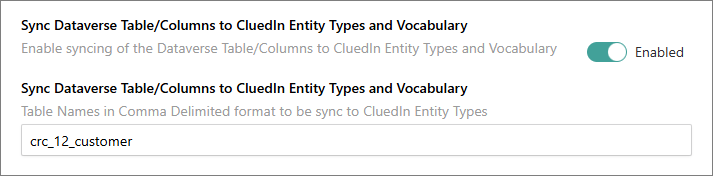
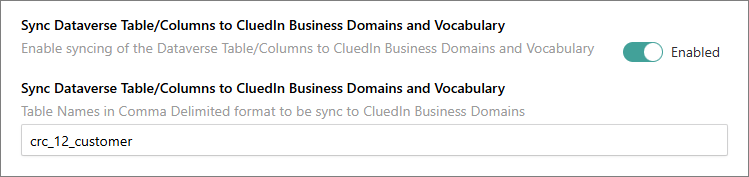
Terminology update in progress

diff --git a/docs/180-microsoft-integration/powerapps/020-power-apps-configuration-guide.md b/docs/180-microsoft-integration/powerapps/020-power-apps-configuration-guide.md
@@ -49,27 +49,27 @@ Power Apps integration offers a variety of features for syncing data between Clu
 
 **To configure specific features of Power Apps integration**
 
-1. If you want to sync multiple CluedIn entity types to Dataverse tables, specify the **Parallel Execution Count**. This is the number of entity types that can be simultaneously synced with Dataverse. Be default, this number is 5.
+1. If you want to sync multiple CluedIn business domains to Dataverse tables, specify the **Parallel Execution Count**. This is the number of business domains that can be simultaneously synced with Dataverse. Be default, this number is 5.
 
-1. If you want to sync CluedIn entity types to Dataverse tables:
+1. If you want to sync CluedIn business domains to Dataverse tables:
 
-    1. Turn on the toggle next to **Sync CluedIn Entity Types Dataverse Table**.
+    1. Turn on the toggle next to **Sync CluedIn Business Domains to Dataverse Table**.
 
-    1. Enter the entity types that you want to sync. If you want to sync multiple entity types, separate them with a comma (for example, _/Type1,/Type2,/Type3_). 
+    1. Enter the business domains that you want to sync. If you want to sync multiple business domains, separate them with a comma (for example, _/Type1,/Type2,/Type3_). 
 
         ![sync-entity-types.png](../../assets/images/microsoft-integration/power-apps/sync-entity-types.png)
 
-        Each entity type will be synced into a separate Dataverse table. For more information, see [Sync entity types to Dataverse tables](/microsoft-integration/powerapps/features/sync-entitytypes).
+        Each business domain will be synced into a separate Dataverse table. For more information, see [Sync business domains to Dataverse tables](/microsoft-integration/powerapps/features/sync-entitytypes).
 
-1. If you want to sync Dataverse tables and columns to CluedIn entity types and vocabulary keys:
+1. If you want to sync Dataverse tables and columns to CluedIn business domains and vocabulary keys:
 
-    1. Turn on the toggle next to **Sync Dataverse Table/Columns to CluedIn Entity Types and Vocabulary**.
+    1. Turn on the toggle next to **Sync Dataverse Table/Columns to CluedIn Business Domains and Vocabulary**.
 
     1. Enter the name of the Dataverse table that you want to sync. This should be the logical name of the Dataverse table. If you want to sync multiple tables, separate them with a comma (for example, _logical_name1,logical_name2,logical_name3_).
 
         ![sync-dataverse-table.png](../../assets/images/microsoft-integration/power-apps/sync-dataverse-table.png)
 
-        Each table will be synced into a separate CluedIn entity type and vocabulary associated with that entity type. The columns from the table will be synced into the vocabulary keys of the vocabulary associated with the entity type. For more information, see [Sync Dataverse tables to CluedIn entity types and vocabularies](/microsoft-integration/powerapps/features/sync-dataverse).
+        Each table will be synced into a separate CluedIn business domain and vocabulary associated with that business domain. The columns from the table will be synced into the vocabulary keys of the vocabulary associated with the business domain. For more information, see [Sync Dataverse tables to CluedIn business domains and vocabularies](/microsoft-integration/powerapps/features/sync-dataverse).
 
 1. If you want to automate the ingestion of data from Dataverse to CluedIn:
 
@@ -87,7 +87,7 @@ Power Apps integration offers a variety of features for syncing data between Clu
 
     1. Make sure you have the [Dataverse export target](/consume/export-targets/dataverse-connector) installed in your CluedIn instance. It should be available in the list of export targets (**Consume** > **Export Targets** > **Add Export Target**). You do not need to configure the Dataverse export target because it will be configured automatically.
 
-    1. Make sure you have enabled **Sync CluedIn Entity Types to Dataverse Table** for entity types of golden records that you want to export to a Dataverse table. 
+    1. Make sure you have enabled **Sync CluedIn Business Domains to Dataverse Table** for business domains of golden records that you want to export to a Dataverse table. 
 
     1. Turn on the toggle next to **Create CluedIn Stream**.
 

diff --git a/docs/200-kb/how-to/010-fix-address-data.md b/docs/200-kb/how-to/010-fix-address-data.md
@@ -45,11 +45,11 @@ Let's consider an example of a CluedIn golden record that contains the address p
 
 ![libpostal-address-input.png](../../assets/images/kb/how-to/libpostal-address-input.png)
 
-To configure the Libpostal enricher, specify the entity type of golden records that you want to enrich and the vocabulary key that contains the initial address.
+To configure the Libpostal enricher, specify the business domain of golden records that you want to enrich and the vocabulary key that contains the initial address.
 
 ![libpostal-settings.png](../../assets/images/kb/how-to/libpostal-settings.png)
 
-When the enricher is configured, [trigger](/preparation/enricher/add-enricher#trigger-enrichment) the enrichment for golden records. You can trigger the enrichment for all golden records of the specific entity type using the [GraphQL tool](/consume/graphql/graphql-actions). Alternatively, you can trigger the enrichment manually for each golden record. To do this, on the golden record page, select **More** > **Trigger external enrichment**.
+When the enricher is configured, [trigger](/preparation/enricher/add-enricher#trigger-enrichment) the enrichment for golden records. You can trigger the enrichment for all golden records of the specific business domain using the [GraphQL tool](/consume/graphql/graphql-actions). Alternatively, you can trigger the enrichment manually for each golden record. To do this, on the golden record page, select **More** > **Trigger external enrichment**.
 
 ![trigger-external-enrichment.png](../../assets/images/kb/how-to/trigger-external-enrichment.png)
 
@@ -84,7 +84,7 @@ To configure the Google Maps enricher, specify the following details:
 
 - **API Key** for retrieving information from the Google Maps Platform.
 
-- **Accepted Entity Type** to define which golden records will be enriched.
+- **Accepted Business Domain** (previously entity type) to define which golden records will be enriched.
 
 - **Vocabulary Key used to control whether it should be enriched** to indicate if the golden record should be enriched. If the value of the vocabulary key is _true_, then the golden record will be enriched. Otherwise, the golden record will not be enriched.
 
@@ -94,7 +94,7 @@ To configure the Google Maps enricher, specify the following details:
 
 ![google-maps-settings.png](../../assets/images/kb/how-to/google-maps-settings.png)
 
-When the enricher is configured, [trigger](/preparation/enricher/add-enricher#trigger-enrichment) the enrichment for golden records. You can trigger the enrichment for all golden records of the specific entity type using the [GraphQL tool](/consume/graphql/graphql-actions), or you can trigger the enrichment manually for each golden record. Alternatively, you can trigger the enrichment manually for each golden record. To do this, on the golden record page, select **More** > **Trigger external enrichment**.
+When the enricher is configured, [trigger](/preparation/enricher/add-enricher#trigger-enrichment) the enrichment for golden records. You can trigger the enrichment for all golden records of the specific business domain using the [GraphQL tool](/consume/graphql/graphql-actions), or you can trigger the enrichment manually for each golden record. Alternatively, you can trigger the enrichment manually for each golden record. To do this, on the golden record page, select **More** > **Trigger external enrichment**.
 
 As a result, the CluedIn golden record now contains a variety of company details from Google Maps, such as administrative area level 1 and 2, business status, country code, and more.
 

diff --git a/docs/180-microsoft-integration/090-excel-add-in.md b/docs/180-microsoft-integration/090-excel-add-in.md
@@ -94,7 +94,7 @@ When the CluedIn Excel Add-in is added, a new group called **CluedIn** appears o
 
 - **Show Taskpane** – opens the CluedIn Excel Add-in task pane to the right side of the window.
 
-- **Create Entity Type** – opens the entity type creation pane in CluedIn in your default browser. For more information, see [Create entity type](/management/entity-type#create-an-entity-type).
+- **Create Entity Type** – opens the business domain (previously entity type) creation pane in CluedIn in your default browser. For more information, see [Create business domain](/management/entity-type#create-a-business-domaine).
 
 - **Merge Entity** – initiates the merging process by opening the merging page in CluedIn in your default browser.
 
@@ -116,9 +116,9 @@ Once you connect to an instance of CluedIn, you can start working with the data 
 
 ### Load data from CluedIn to Excel
 
-1. Select the **Entity Type** of golden records that you want to load. The dropdown list contains the entity types that are currently used in CluedIn.
+1. In **Entity Type**, select the business domain (previously entity type) of golden records that you want to load. The dropdown list contains the business domains that are currently used in CluedIn.
 
-1. Specify the **Vocabulary Keys** of golden records that you want to load. To add all vocabulary keys associated with the selected entity type, use the **Auto-select** option.
+1. Specify the **Vocabulary Keys** of golden records that you want to load. To add all vocabulary keys associated with the selected business domain, use the **Auto-select** option.
 
     ![load-data-auto-select.png](../../assets/images/microsoft-integration/excel-add-in/load-data-auto-select.png)
 
@@ -148,7 +148,7 @@ Once you connect to an instance of CluedIn, you can start working with the data 
 
     When the data is loaded, it becomes available in the spreadsheet, and you can start [modifying](#modify-loaded-data-in-excel) it as needed. By default, the rows are presented in alternating light blue and white colors.
 
-    Note that the sheet name corresponds to the entity type of loaded golden records. If you want to load the data of another entity type, just add a new sheet, edit the configuration on the **Load Data** tab, and load the data. and You can have as many sheets as you like.
+    Note that the sheet name corresponds to the business domain of loaded golden records. If you want to load the data of another business domain, just add a new sheet, edit the configuration on the **Load Data** tab, and load the data. and You can have as many sheets as you like.
 
     ![loaded-data.png](../../assets/images/microsoft-integration/excel-add-in/loaded-data.png)
 

diff --git a/docs/180-microsoft-integration/powerapps/020-features/020-sync-dataverse-to-cluedin.md b/docs/180-microsoft-integration/powerapps/020-features/020-sync-dataverse-to-cluedin.md
@@ -4,12 +4,12 @@ nav_order: 20
 parent: Features
 grand_parent: Power Apps Integration
 permalink: /microsoft-integration/powerapps/features/sync-dataverse
-title: Sync Dataverse table to Cluedin entity types/vocabularies
+title: Sync Dataverse table to Cluedin business domains/vocabularies
 tags: ["integration", "microsoft", "powerapps", "dataverse"]
 last_modified: 2023-05-17
 ---
 
-This feature allows you to sync Dataverse table and columns into CluedIn entity type, vocabulary, and vocabulary keys.
+This feature allows you to sync Dataverse table and columns into CluedIn business domains, vocabulary, and vocabulary keys.
 
 **Prerequisites**
 
@@ -23,18 +23,18 @@ You'll need to provide the logical name of the Dataverse table. There are the fo
 
     ![Identifying Logical Name](../images/dataverse-logical-name.png)
 
-**To sync Dataverse table and columns into CluedIn entity types and vocabulary**
+**To sync Dataverse table and columns into CluedIn business domains and vocabulary**
 
 1. On the navigation pane, go to **Administration** > **Settings**, and then find the **PowerApps** section.
 
-1. In **Sync Dataverse Table/Columns to CluedIn Entity Types and Vocabulary**, turn on the toggle, and then enter the Dataverse table name. The value should be the **logical name** of the table. If you want to sync multiple tables, separate them with a comma (for example, _logical_name1_,logical_name2,logical_name3_).
+1. In **Sync Dataverse Table/Columns to CluedIn Business Domains and Vocabulary**, turn on the toggle, and then enter the Dataverse table name. The value should be the **logical name** of the table. If you want to sync multiple tables, separate them with a comma (for example, _logical_name1_,logical_name2,logical_name3_).
 
-    ![Sync Dataverse Table to Cluedin Entity Types/Vocabularies](../images/sync-dataverse-table-setting.png)
+    ![sync-dataverse-table.png](../../assets/images/microsoft-integration/power-apps/sync-dataverse-table.png)
 
     Once the synchronization has been successfully completed, you'll receive three notifications: **Entity Type Created**, **Vocabulary Created**, and **Vocabulary Keys Created**.
     
     ![Sync Dataverse Table Notification](../images/sync-dataverse-table-notification.png)
 
-1. Verify the entity type, vocabulary, and vocabulary keys created in CluedIn.
+1. Verify the business domain, vocabulary, and vocabulary keys created in CluedIn.
 
     ![Create New EntityType and Vocab](../images/created-new-entitytype-and-vocab.png)

diff --git a/docs/130-workflow.md/030-create-and-manage-workflows.md b/docs/130-workflow.md/030-create-and-manage-workflows.md
@@ -33,13 +33,13 @@ Currently, you can automate the approval process for certain actions in CluedIn.
 | Editing a property in the record** | Batched Clues Approval | If somebody tries to edit a property in the record, an approval request is sent to the users with the same or higher claim access level.
 | Rule creation* | Processing Rule Change Approval | If somebody tries to create a new rule, an approval request is sent to the users with the same or higher claim access level. |
 | Rule modification | Processing Rule Change Approval | If somebody tries to make changes to the rule, an approval request is sent to the owners of the rule. |
-| Entity type creation* | Entity Type Change Approval | If somebody tries to create a new entity type, an approval request is sent to the users with the same or higher claim access level. |
+| Business domain creation* | Entity Type Change Approval | If somebody tries to create a new business domain, an approval request is sent to the users with the same or higher claim access level. |
 | Receiving internal CluedIn notifications | Notification | If somebody receives an internal notification in CluedIn, the same notification is sent to the external systems such as Outlook or the Approval app in Teams. |
 | Inviting a new user to CluedIn | User Invite Approval | If somebody tries to add a new user to CluedIn, an approval request is sent to the users with the same or higher claim access level. |
 
 _* The approval requests for these actions are sent only if the **Approvals for creating items** option is enabled in [workflow settings](/microsoft-integration/power-automate/configuration-guides)._
 
-_* *The approval requests for this action are sent only if the [entity type](/management/entity-type) of the records has the **Batch approval workflow** option enabled._
+_* *The approval requests for this action are sent only if the [business domain](/management/entity-type) of the records has the **Batch approval workflow** option enabled._
 
 {:.important}
 One action can be used only in one workflow. For example, if you created a workflow with the Vocabulary Change Approval action, you can't select this action in another workflow.

diff --git a/docs/180-microsoft-integration/powerapps/020-features/010-sync-entitytypes-to-dataverse.md b/docs/180-microsoft-integration/powerapps/020-features/010-sync-entitytypes-to-dataverse.md
@@ -4,22 +4,22 @@ nav_order: 10
 parent: Features
 grand_parent: Power Apps Integration
 permalink: /microsoft-integration/powerapps/features/sync-entitytypes
-title: Sync entity types to Dataverse tables
+title: Sync business domains to Dataverse tables
 tags: ["integration", "microsoft", "powerapps", "dataverse"]
 last_modified: 2023-05-17
 ---
 
-This feature allows you to sync CluedIn entity types, vocabularies, and vocabulary keys with Dataverse table and columns.
+This feature allows you to sync CluedIn business domains, vocabularies, and vocabulary keys with Dataverse table and columns.
 
-**To sync CluedIn entity types with Dataverse table**
+**To sync CluedIn business domains with Dataverse table**
 
 1. On the navigation pane, go to **Administration** > **Settings**, and then find the **PowerApps** section.
 
-1. In **Sync CluedIn Entity Types to Dataverse Table**, turn on the toggle, and then enter the entity type that you want to sync. If you want to sync multiple entity types, separate them with a comma (for example, _/_Type1,/Type2,/Type3_).
+1. In **Sync CluedIn Business Domains to Dataverse Table**, turn on the toggle, and then enter the business domain that you want to sync. If you want to sync multiple business domains, separate them with a comma (for example, _/_Type1,/Type2,/Type3_).
 
     ![Sync Entity Types to Dataverse Tables](../images/sync-cluedin-entitytypes-setting.png)
 
-    Another way to enable this feature is to navigate to **Management** > **Entity Types** and select the entity type you want to sync. Then, select **Edit** and turn on the toggle for **Sync CluedIn Entity Types to Dataverse Table**. Finally, save changes.
+    Another way to enable this feature is to navigate to **Management** > **Business Domains** and select the business domain you want to sync. Then, select **Edit** and turn on the toggle for **Sync CluedIn Business Domains to Dataverse Table**. Finally, save changes.
 
     ![Sync Entity Types to Dataverse Tables](../images/sync-cluedin-entitytypes-page-setting.png)
 

diff --git a/docs/210-playbooks/data-engineering/002-extending-cluedin-with-ms-integrations.md b/docs/210-playbooks/data-engineering/002-extending-cluedin-with-ms-integrations.md
@@ -59,7 +59,7 @@ If you use Fabric, Databricks, Snowflake, Synapse, or any other Python-based dat
 
 ## Event Hubs integration
 
-[Azure Event Hubs](https://learn.microsoft.com/en-us/azure/event-hubs/) is a native data-streaming service in the cloud that can stream millions of events per second, with low latency, from any source to any destination. By integrating Azure Event Hubs and CluedIn, you can enable the transmission of important events from CluedIn to your event hub. For example, adding or updating a data source, adding an entity type, creating a deduplication project, and more. You can then connect your event hub to Fabric and **build reports or alerts for different events**. This way you can get valuable insights about the activities in CluedIn, such as the number of deduplication or clean projects that were created last week. For more information, see [Event Hub integration](/microsoft-integration/event-hub-integration).
+[Azure Event Hubs](https://learn.microsoft.com/en-us/azure/event-hubs/) is a native data-streaming service in the cloud that can stream millions of events per second, with low latency, from any source to any destination. By integrating Azure Event Hubs and CluedIn, you can enable the transmission of important events from CluedIn to your event hub. For example, adding or updating a data source, adding a business domain, creating a deduplication project, and more. You can then connect your event hub to Fabric and **build reports or alerts for different events**. This way you can get valuable insights about the activities in CluedIn, such as the number of deduplication or clean projects that were created last week. For more information, see [Event Hub integration](/microsoft-integration/event-hub-integration).
 
 In addition to this, CluedIn offers the [Azure Event Hub connector](/consume/export-targets/azure-event-hub-connector). You can configure it and use it in a stream to **export golden records** to a specific event hub.
 

diff --git a/docs/180-microsoft-integration/powerapps/020-features/040-create-batch-approval-worrkflow.md b/docs/180-microsoft-integration/powerapps/020-features/040-create-batch-approval-worrkflow.md
@@ -9,7 +9,7 @@ tags: ["integration", "microsoft", "powerautomate", "approval", "workflow"]
 last_modified: 2023-05-17
 ---
 
-This feature enables you to automate the creation of the workflow for the batch approval process. If you process the data (regardless of the source) and the system identifies that the entity type used has been tagged for the approval process, the data will be halted, and the approval process will start and wait for the user's approval to continue the data processing.
+This feature enables you to automate the creation of the workflow for the batch approval process. If you process the data (regardless of the source) and the system identifies that the business domain used has been tagged for the approval process, the data will be halted, and the approval process will start and wait for the user's approval to continue the data processing.
 
 **Prerequisites**
 
@@ -20,7 +20,7 @@ For more information, refer to this [link](/microsoft-integration/powerapps/setu
 
 **To enable the batch approval workflow**
 
-1. In CluedIn, on the navigation pane, go to **Management** > **Entity Types**, and then select the entity type that you want to sync.
+1. In CluedIn, on the navigation pane, go to **Management** > **Business Domains**, and then select the business domain that you want to sync.
 
 1. Select **Edit** and then turn on the toggle for **Enable for Batch Approval Workflow**.
 

diff --git a/docs/180-microsoft-integration/powerapps/020-features/030-create-ingestion-endpoint-workflow.md b/docs/180-microsoft-integration/powerapps/020-features/030-create-ingestion-endpoint-workflow.md
@@ -31,7 +31,7 @@ As part of workflow automation, the ingestion endpoint will be created as well. 
 
 **Workflow**
 
-The creation of workflow will depend on the values of **Sync Entity Types** and **Sync Dataverse Tables**. Once the execution of the job is done, from the sample values above, you can expect two workflows to be created, one for each of the **cluedin_dog** and **crc12_customer** tables.
+The creation of workflow will depend on the values of **Sync Business Domains** and **Sync Dataverse Tables**. Once the execution of the job is done, from the sample values above, you can expect two workflows to be created, one for each of the **cluedin_dog** and **crc12_customer** tables.
 
 ![Power Automate Workflows](../images/power-automate-workflows.png)
 
@@ -49,7 +49,7 @@ As we already know the structure of the table/vocabulary that we are working on,
 
 ![Auto Mapping](../images/ingestion-endpoint-automapping-01.png)
 
-On the **Map** tab, you can find the the full view of all columns mapped to our vocabulary, including edges (relationships) and origin entity code (keys), if there are any.
+On the **Map** tab, you can find the the full view of all columns mapped to our vocabulary, including edges (relationships) and identifiers, if there are any.
 
 ![Auto Mapping](../images/ingestion-endpoint-automapping-02.png)
 

diff --git a/docs/210-playbooks/data-engineering/040-ingestion.md b/docs/210-playbooks/data-engineering/040-ingestion.md
@@ -28,7 +28,7 @@ We want to load this data to CluedIn. To do that, we need to create an API token
 <img src="/assets/images/python-sdk/api-token.png" alt="CluedIn API token" />
 
 
-Next, create an endpoint in CluedIn. From CluedIn's main page, click "Import From Ingestion Endpoint" and create a new endpoint. You will need to enter the endpoint's name, group name, and select entity type:
+Next, create an endpoint in CluedIn. From CluedIn's main page, click "Import From Ingestion Endpoint" and create a new endpoint. You will need to enter the endpoint's name, group name, and select business domain (previouisly entity type):
 
 <img src="/assets/images/python-sdk/endpoint.png" alt="Ingestion Endpoint" />
 
@@ -163,7 +163,7 @@ Then, in the Map tab, we create an automatic mapping:
 
 1. Click "Add Mapping".
 2. Select "Auto Mapping" and "Next".
-3. Ensure the entity type is selected or type a new entity type name and click "Create".
+3. Ensure the business domain (previously entity type) is selected or type a new business domain name and click "Create".
 4. Type the new vocabulary name, like `imdb.title` and click "Create".
 5. Click "Create Mapping".
 

diff --git a/docs/200-kb/kb0010-faq.md b/docs/200-kb/kb0010-faq.md
@@ -70,7 +70,7 @@ The good news is that the native CluedIn administration screen is built on top o
 
 ## I have made a change in CluedIn that requires me to re-process all the data. What do I do?
 
-It will happen many times with your CluedIn account! It is highly typical and expected. CluedIn has been designed with the idea in mind that we will re-process the data all the time. Once you have made your change, you have quite a lot of control over the level of re-processing. You can re-process at a source level, globally, record level, or even something a little more custom, e.g., entity type level.
+It will happen many times with your CluedIn account! It is highly typical and expected. CluedIn has been designed with the idea in mind that we will re-process the data all the time. Once you have made your change, you have quite a lot of control over the level of re-processing. You can re-process at a source level, globally, record level, or even something a little more custom, e.g., business domain level.
 
 ## Does CluedIn index everything?
 

diff --git a/docs/180-microsoft-integration/power-automate/020-power-automate-configuration-guide.md b/docs/180-microsoft-integration/power-automate/020-power-automate-configuration-guide.md
@@ -45,7 +45,7 @@ Make sure that you have completed all of the actions described in [Power Automa
 
     - **Enterprise Flow Cache Duration** – a time period for which data is stored in the cache for enterprise flows. This duration can impact the performance and efficiency of your workflows. In the context of Power Automate, the cache duration helps manage the flow’s performance by temporarily storing data to reduce the need for repeated data retrievals.
 
-    - **Entity Type Cache Duration** – a time period for which the records that belong to the entity types with the **Batch approval workflow** option enabled are stored in the cache.
+    - **Business Domain Cache Duration** – a time period for which the records that belong to the business domains with the **Batch approval workflow** option enabled are stored in the cache.
 
         ![workflows-cluedin-configuration.png](../../assets/images/microsoft-integration/power-automate/workflows-cluedin-configuration.png)
 
